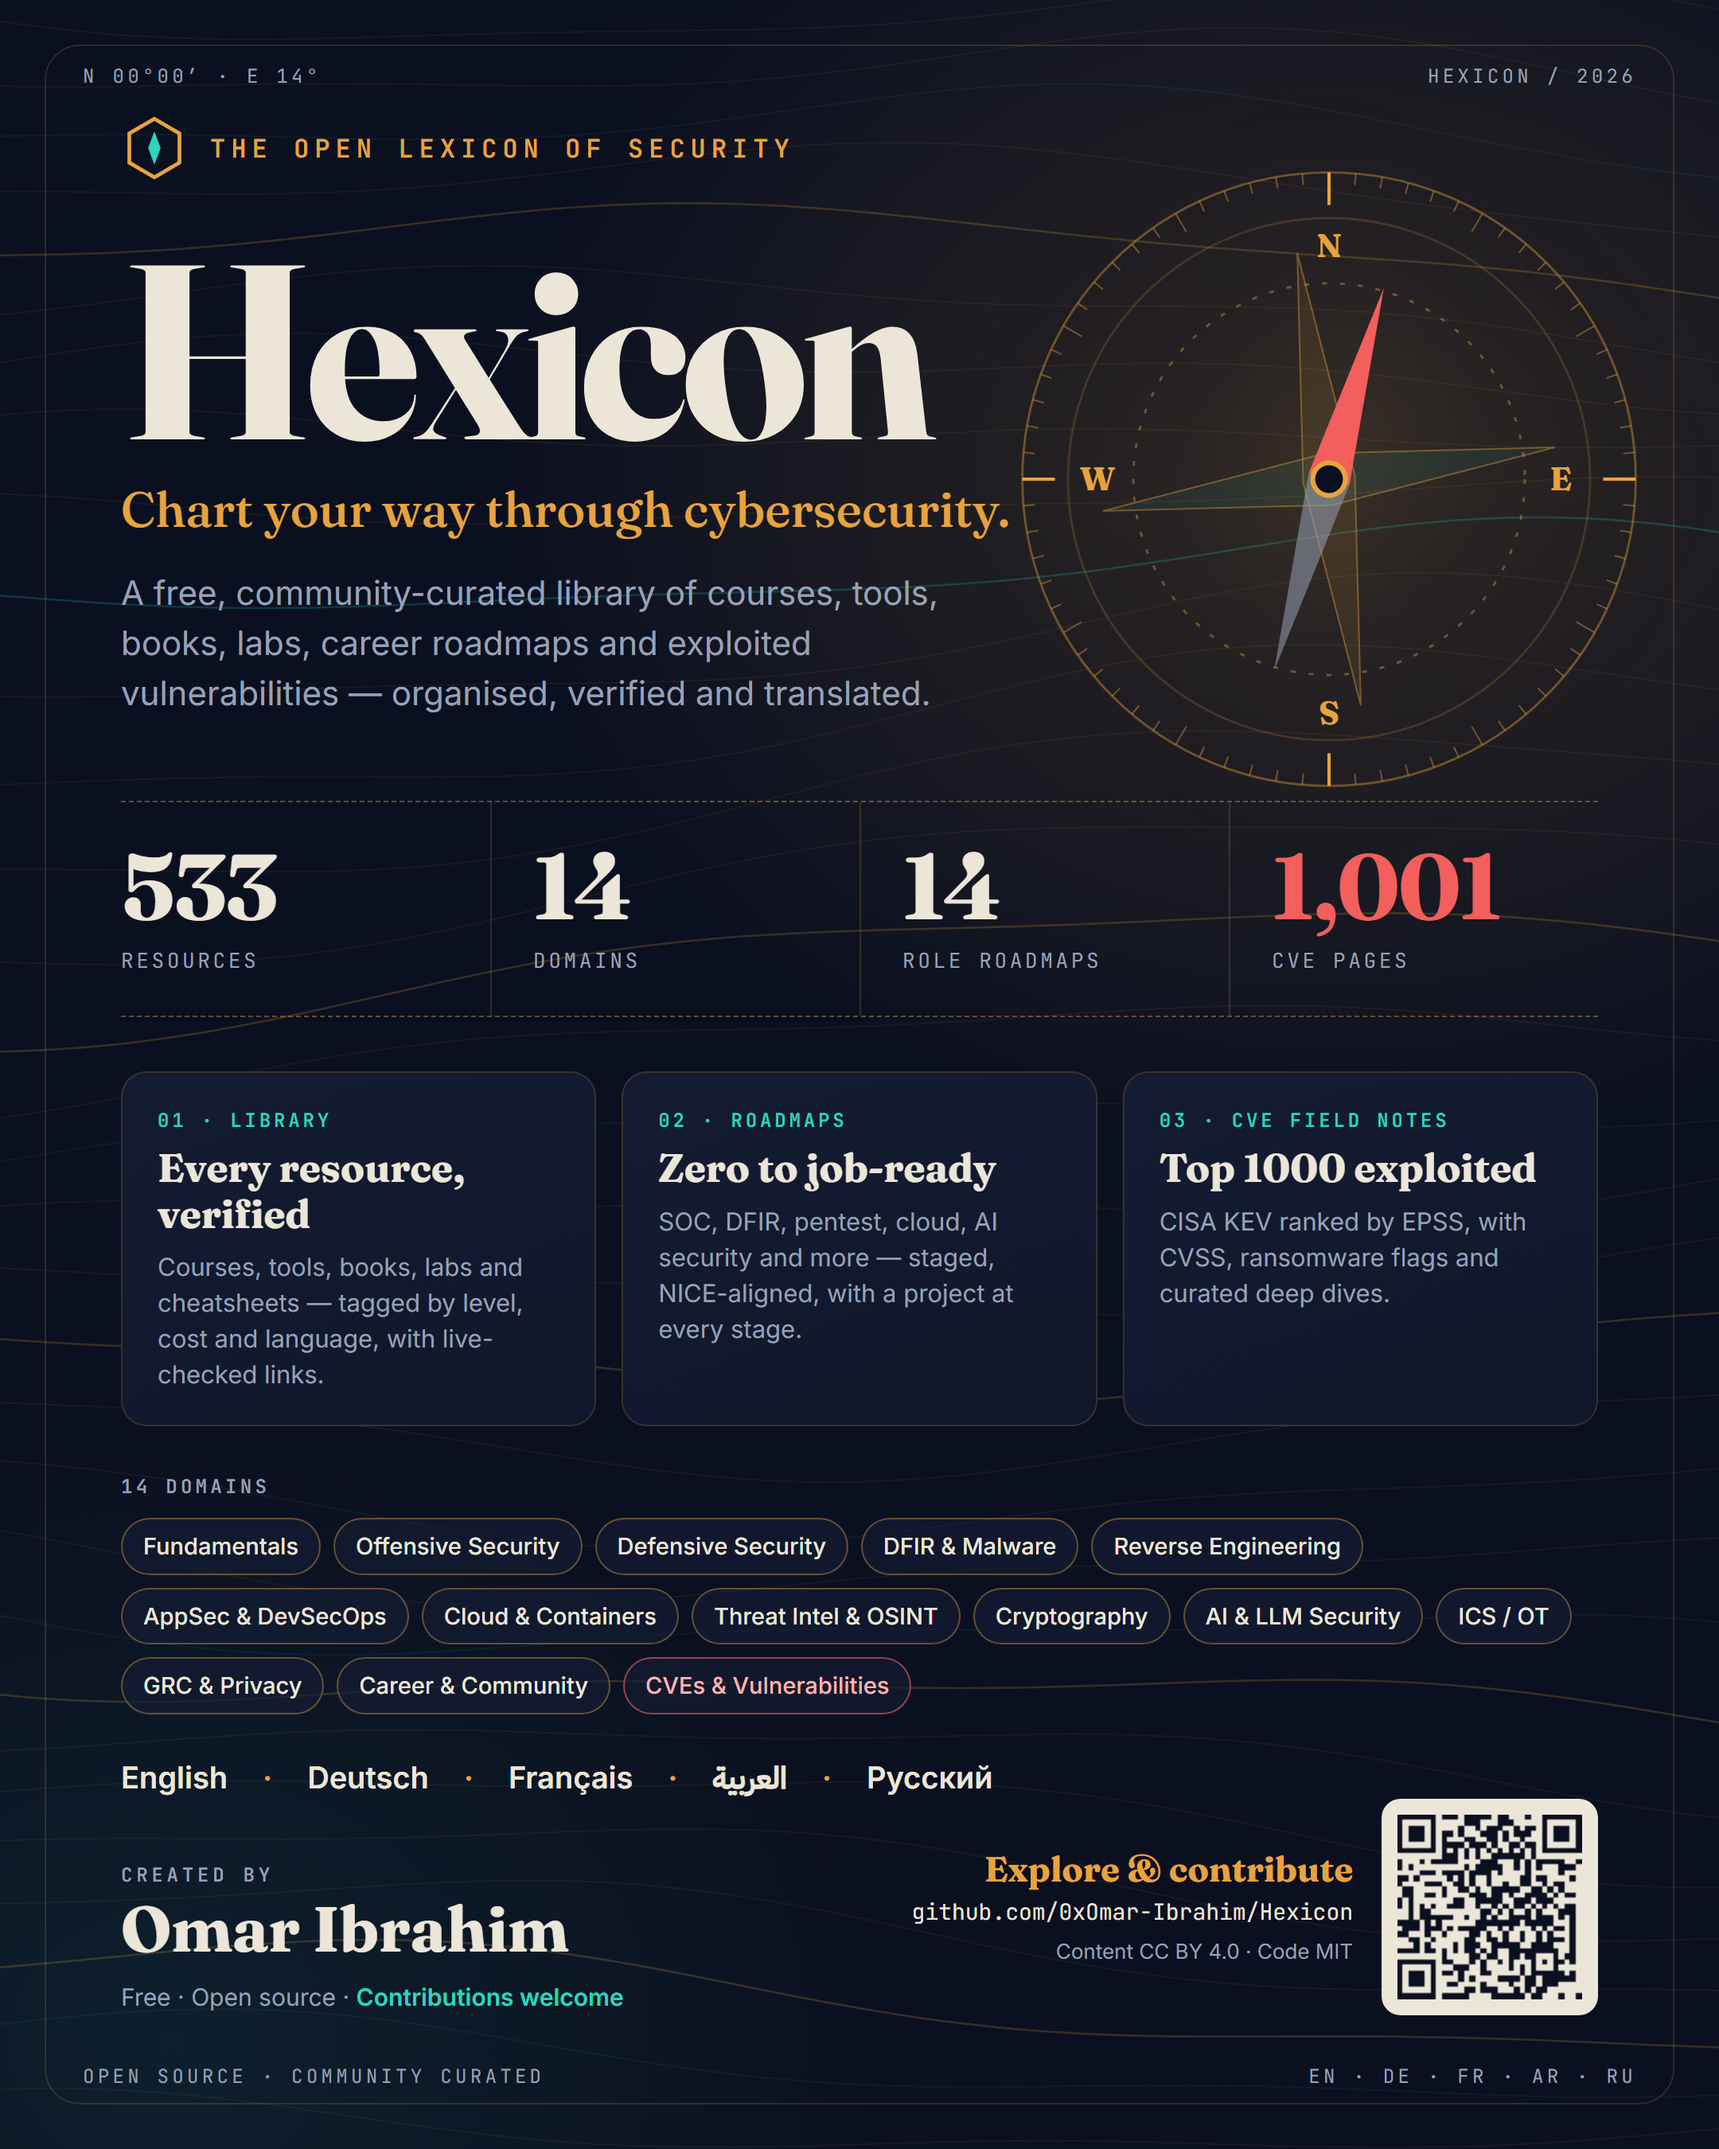
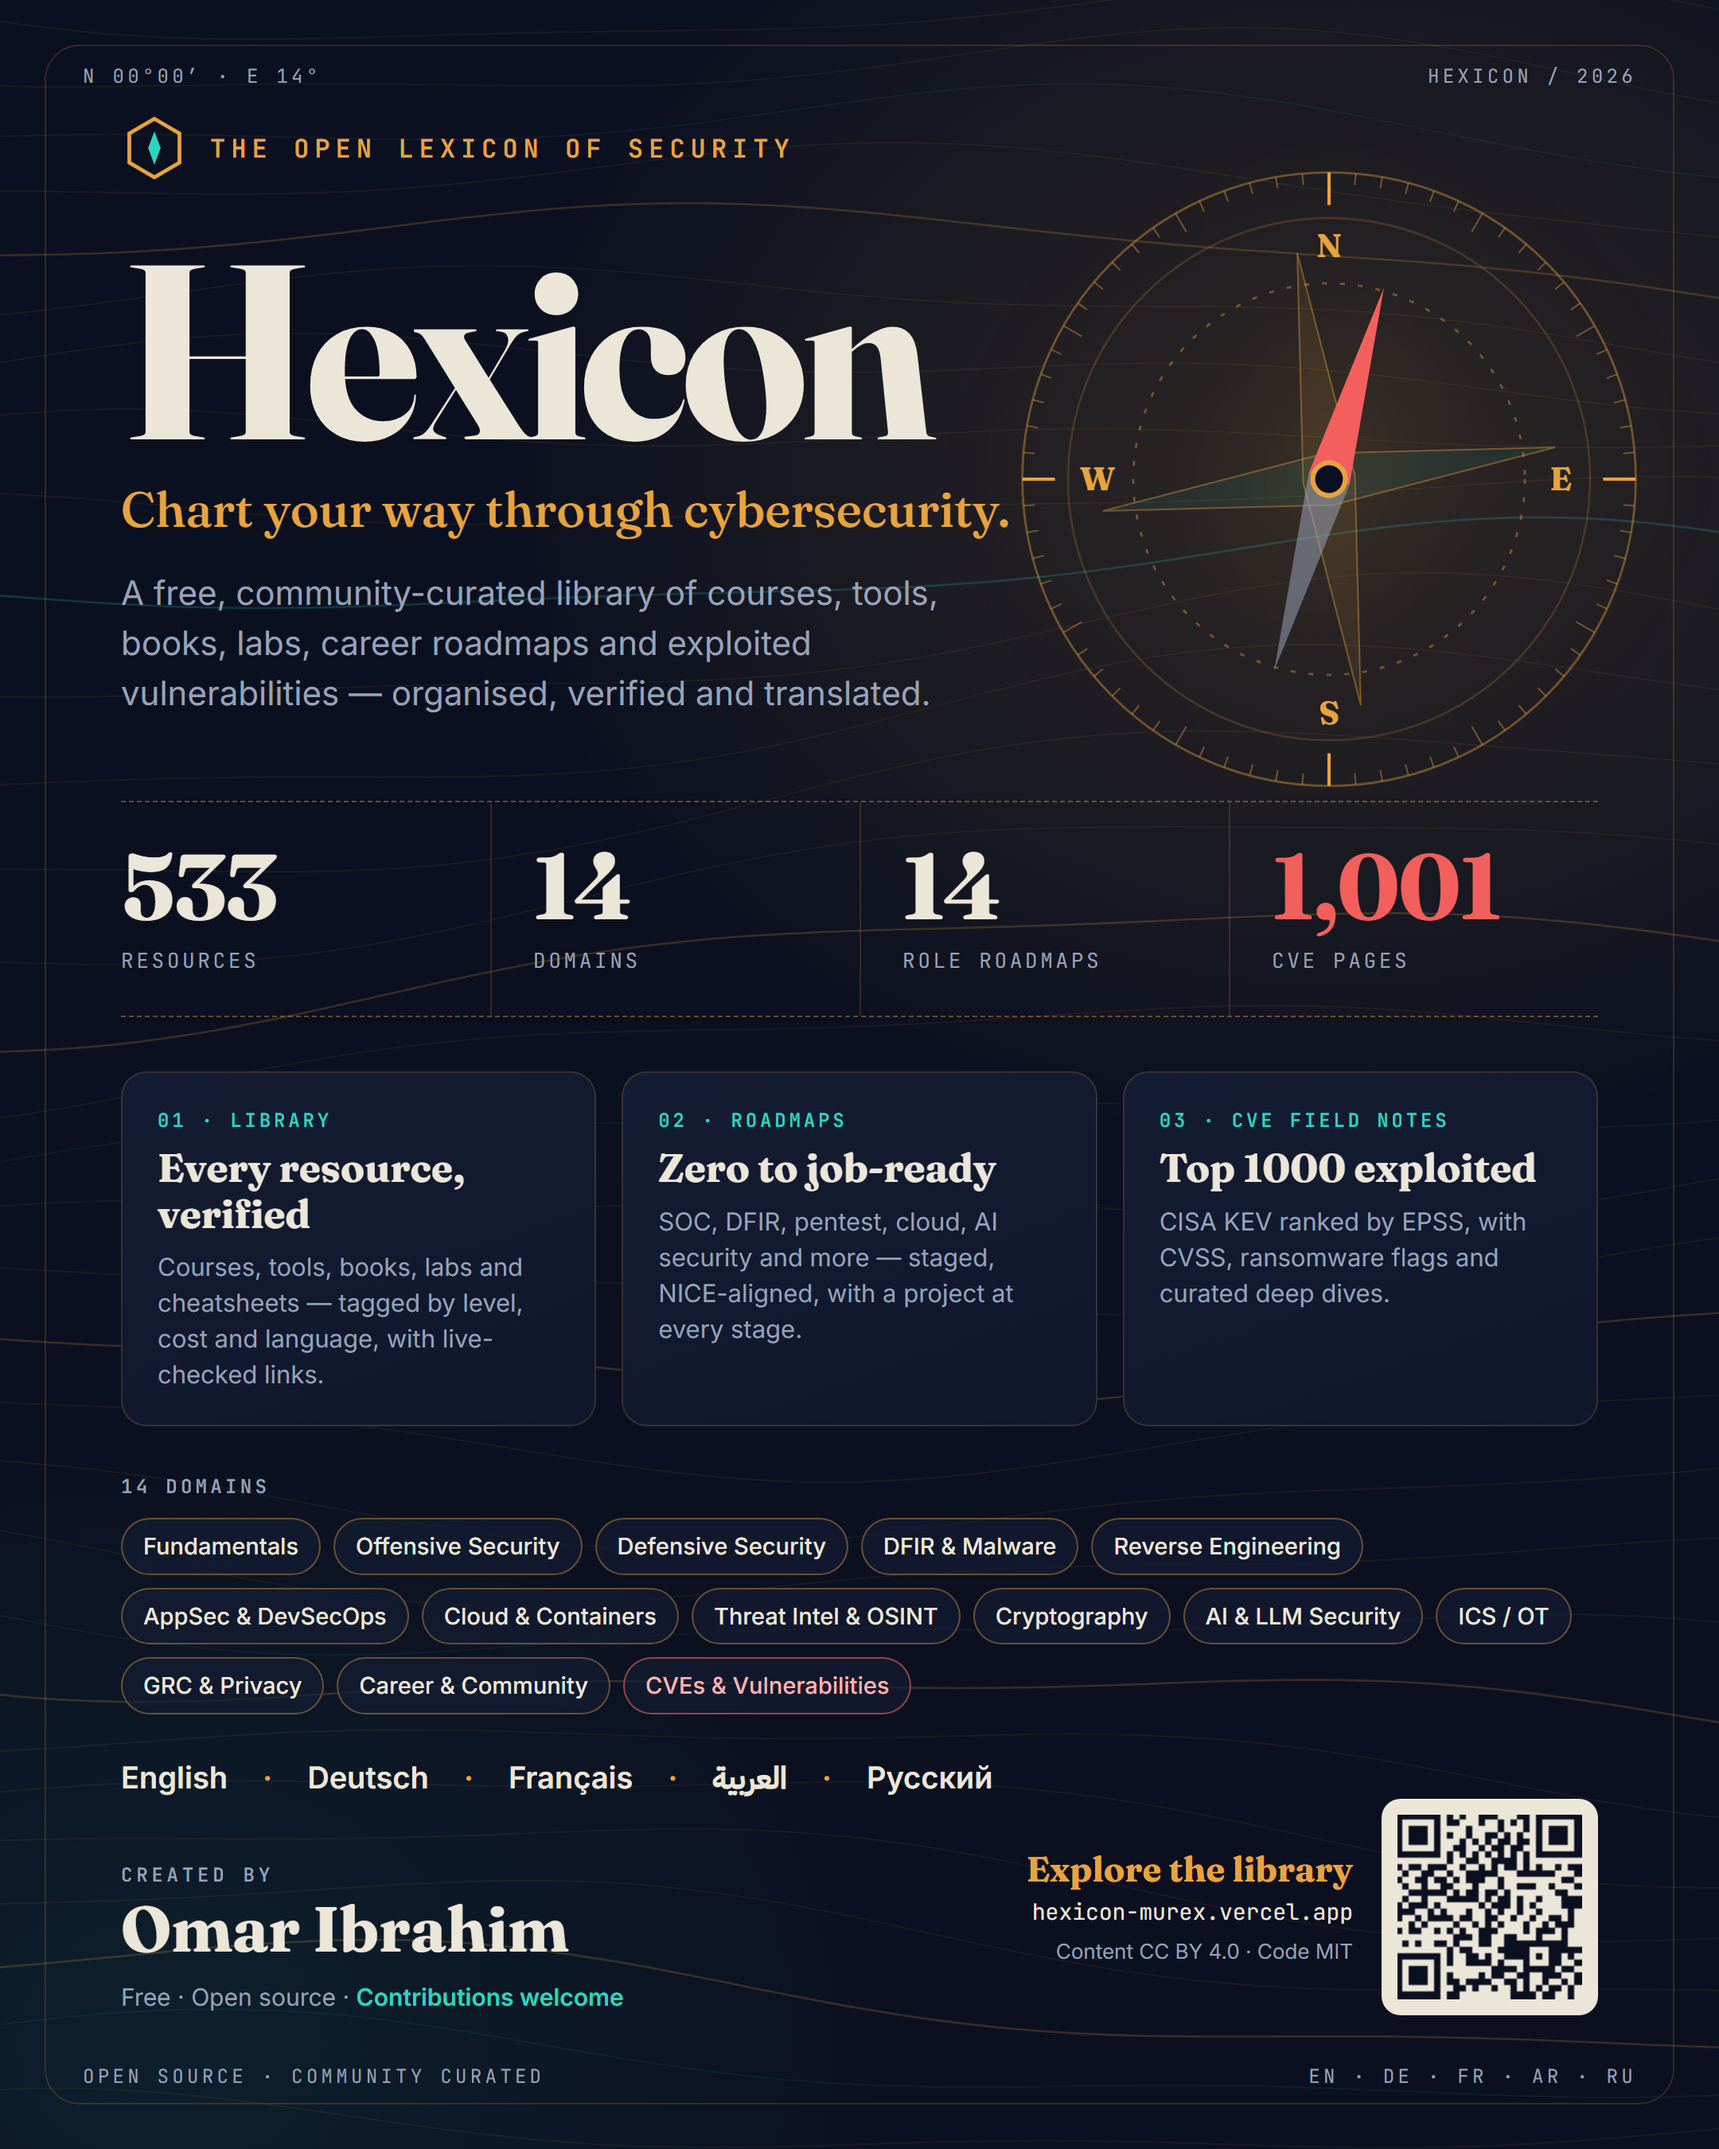
docs(poster): QR code and URL now point to https://hexicon-murex.vercel.app

Changed region(s): [[0.8065, 0.84, 0.9306, 0.9333], [0.5583, 0.84, 0.7755, 0.9022]]

diff --git a/assets/poster/poster.html b/assets/poster/poster.html
@@ -147,8 +147,8 @@
     </div>
     <div class="qr">
       <div class="qr-text">
-        <div class="cta">Explore &amp; contribute</div>
-        <div class="url">github.com/0xOmar-Ibrahim/Hexicon</div>
+        <div class="cta">Explore the library</div>
+        <div class="url">hexicon-murex.vercel.app</div>
         <div class="lic">Content CC BY 4.0 · Code MIT</div>
       </div>
       <div class="qr-box"><div id="qrcode"></div></div>
@@ -188,7 +188,7 @@
 
   // QR code to the repository
   new QRCode(document.getElementById('qrcode'), {
-    text: 'https://github.com/0xOmar-Ibrahim/Hexicon', width: 116, height: 116,
+    text: 'https://hexicon-murex.vercel.app', width: 116, height: 116,
     colorDark: '#0B1020', colorLight: '#ECE6D9', correctLevel: QRCode.CorrectLevel.M,
   });
 </script>
